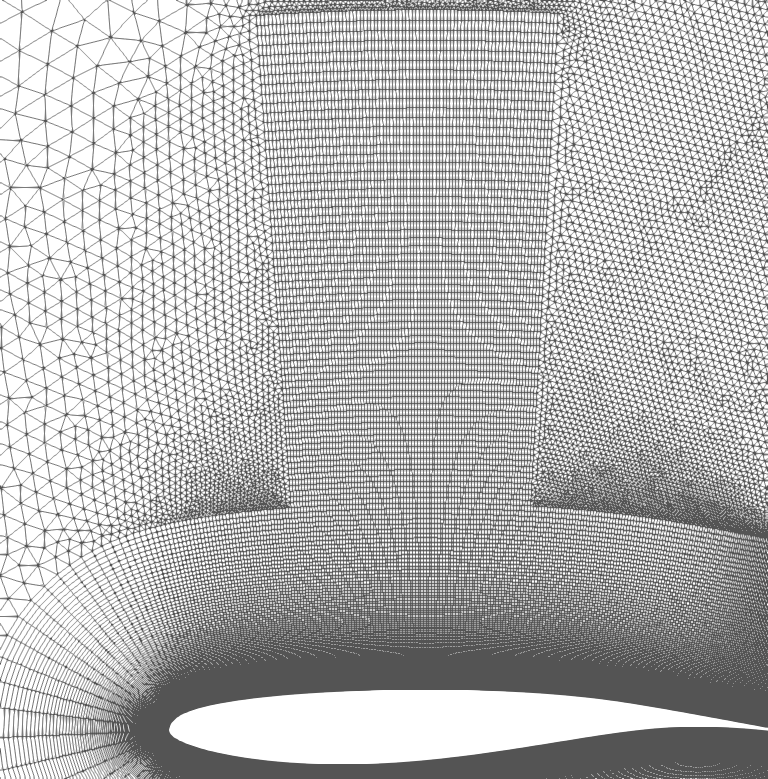
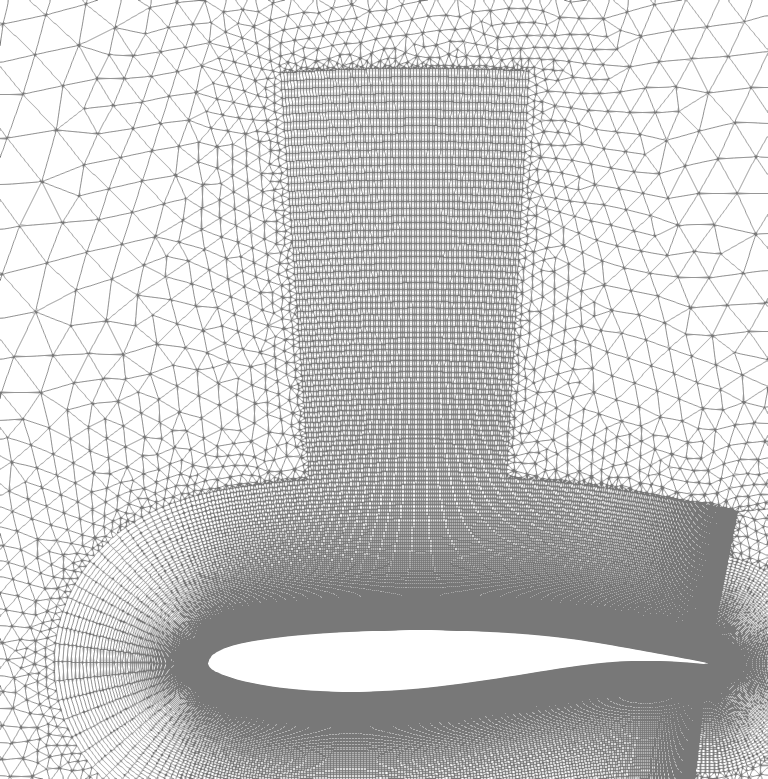
updated documentation

diff --git a/README.md b/README.md
@@ -3,17 +3,18 @@
 This project focuses on the generation of high-quality 2D C-type meshes for airfoil geometries, starting from a given airfoil contour and using as few user-defined parameters as possible. The generated meshes are designed such that a depth-extruded version is suitable for Delayed Detached Eddy Simulation (DDES) ([meshing guideline](https://www.aiaa-dpw.org/ref/gridding_guidelines_v3_07012024.pdf)).
 
 **Background and Reference**:
-- [pyAero](https://github.com/chiefenne/PyAero); the package was evaluated as a reference. Although, it implements many of the required features; however, initial tests revealed the following issues:
-  - loading the contour data is not very robust
-  - the implementation can't deal with contours that already come with a trailing edge
-  - the contour refinement is not smooth enough for DDES-type simulations; the algorithms introduces 1.5-ratio jumps in the cell edge length along the contour
+
+- [pyAero](https://github.com/chiefenne/PyAero) was evaluated as a reference package. Although it implements many of the required features, initial tests revealed the following issues:
+  - loading the contour data is not very robust,
+  - the implementation cannot deal with contours that already come with a trailing edge,
+  - the contour refinement is not smooth enough for DDES-type simulations; the algorithm introduces 1.5-ratio jumps in the cell edge length along the contour.
 
 The current implementation addresses the above limitations through the following:
 
-- Handling contours blunt trailing edge, by replacing it with a smooth curve.
+- Handling blunt trailing-edge contours by replacing the trailing edge with a smooth curve.
 - A smooth point-distribution algorithm for the airfoil surface based on:
   - mesh-size ratio,
-  - weighting functions to concentrate mesh points in regions of interest (e.g. leading edge or shock buffet regions).
+  - weighting functions to concentrate mesh points in regions of interest, such as the leading edge or shock-buffet regions.
 
 **Mesh topology**:
 
@@ -21,50 +22,60 @@ The mesh is generated using a hybrid structured–unstructured strategy:
 
 - Structured mesh blocks are created in critical regions:
   - the airfoil boundary layer,
-  - buffet region.
-- The remaining domain is filled with **unstructured triangular elements**, generated using the [Gmsh](https://github.com/live-clones/gmsh/tree/master) library.
-Options are provided to make the wake region finer.  
+  - the expected shock-buffet region.
+- The remaining domain is filled with **unstructured triangular or quad-dominant elements**, generated using the [Gmsh](https://github.com/live-clones/gmsh/tree/master) library.
+
+The unstructured farfield mesh also includes a circular refinement region around the airfoil, allowing finer resolution near the airfoil and surrounding structured blocks before smoothly transitioning to the coarser outer farfield mesh. Options are provided to make the wake region finer.
 
 <p align="center">
   <img src="data/images/base/airfoil_main.png" width="600">
 </p>
+
 <p align="center">
   <img src="data/images/base/airfoil_main_zoom_1.png" width="600">
 </p>
+
 <p align="center">
   <img src="data/images/base/airfoil_main_zoom_2.png" width="45%">
-  <img src="data/images/base/airfoil_main_zoom_3.png"  width="45%">
+  <img src="data/images/base/airfoil_main_zoom_3.png" width="45%">
 </p>
 
-The mesh settings used to generate this mesh are provided in the default "mesh_config.yaml" file.
+The mesh settings used to generate this mesh are provided in the default `mesh_config.yaml` file.
 
 ## Dependencies
+
 To clone the repository:
-```
+
+```bash
 git clone https://github.com/tanujravi/airfoil_meshing.git
 cd airfoil_meshing
 ```
+
 Setting up a suitable Python environment:
-```
+
+```bash
 python3 -m venv aero
 source aero/bin/activate
 pip install -U pip
 pip install -r requirements.txt
 ```
+
 The OAT15A airfoil contour data can be downloaded [here](https://www.aiaa-dpw.org/geometry.html).
 
 ## How to run
 
 To generate the mesh, run:
-```
+
+```bash
 source aero/bin/activate
 python main.py mesh_config.yaml
-
 ```
-Mesh parameters can be adjusted in "mesh_config.yaml" file.
 
-This generates a 2D mesh in obj format. The mesh can be extruded and converted to OpenFOAM format with boundary conditions included, using
-```
+Mesh parameters can be adjusted in the `mesh_config.yaml` file.
+
+This generates a 2D mesh in OBJ format. The mesh can be extruded and converted to OpenFOAM format with boundary conditions included, using:
+
+```bash
 cd openFOAM_mesh
 cp ../mesh.obj .
 ./Allrun
@@ -73,7 +84,11 @@ cp ../mesh.obj .
 Replace the mesh file name as required.
 
 ## Parameter variation
-1. n_points (airfoil_boundary) - Increases the number of mesh points allocated to the surface of the airfoil contour
+
+### 1. `n_points` (`airfoil_boundary`)
+
+Increases the number of mesh points allocated to the surface of the airfoil contour.
+
 <table align="center">
   <tr>
     <td align="center">
@@ -87,12 +102,15 @@ Replace the mesh file name as required.
   </tr>
 </table>
 
-2. weight_upper - Increases the number of mesh nodes distributed to the suction side of airfoil
+### 2. `weight_upper`
+
+Increases the number of mesh nodes distributed to the suction side of the airfoil.
+
 <table align="center">
   <tr>
     <td align="center">
       <img src="data/images/parameter_variation/weight_upper_base.png" width="400"><br>
-      <em>(a) weight_upper = 1</em>
+      <em>(a) weight_upper = 2</em>
     </td>
     <td align="center">
       <img src="data/images/parameter_variation/weight_upper_act.png" width="400"><br>
@@ -100,14 +118,18 @@ Replace the mesh file name as required.
     </td>
   </tr>
 </table>
-It is observed that the horizontal mesh length of one element in the buffet region is reduced from 0.0092 to 0.0085. Further refinement can be achieved by allocating fewer points in the trailing-edge region using the weight_te parameter, so that more points are distributed in the buffet zone.
 
-3. weight_curvature - Increases the distibution of points where the curvature is high i.e. Nose of the airfoil. 
+It is observed that the horizontal mesh length of one element in the buffet region is reduced from 0.0092 to 0.0085. Further refinement can be achieved by allocating fewer points in the trailing-edge region using the `weight_te` parameter, so that more points are distributed in the buffet zone.
+
+### 3. `weight_curvature`
+
+Increases the distribution of points where the curvature is high, i.e., near the nose of the airfoil.
+
 <table align="center">
   <tr>
     <td align="center">
       <img src="data/images/parameter_variation/weight_curvature_base.png" width="400"><br>
-      <em>(a) weight_curvature = 4</em>
+      <em>(a) weight_curvature = 6</em>
     </td>
     <td align="center">
       <img src="data/images/parameter_variation/weight_curvature_act.png" width="400"><br>
@@ -116,9 +138,12 @@ It is observed that the horizontal mesh length of one element in the buffet regi
   </tr>
 </table>
 
-Note: When multiple weighting functions are applied simultaneously, their sensitivities can differ significantly. In some cases, one weighting parameter must be varied by orders of magnitude before its effect becomes noticeable. This behavior was observed when adjusting weight_upper and weight_curvature at the same time. In particular, a value of weight_curvature = 100 was required before additional points appeared near the leading edge (nose) when increasing weight_upper.
+Note: When multiple weighting functions are applied simultaneously, their sensitivities can differ significantly. In some cases, one weighting parameter must be varied by orders of magnitude before its effect becomes noticeable. This behavior was observed when adjusting `weight_upper` and `weight_curvature` at the same time. In particular, a value of `weight_curvature = 100` was required before additional points appeared near the leading edge when increasing `weight_upper`.
 
-4. weight_te - Increases points distribution towards the trailing edge region.
+### 4. `weight_te`
+
+Increases point distribution towards the trailing-edge region.
+
 <table align="center">
   <tr>
     <td align="center">
@@ -131,9 +156,12 @@ Note: When multiple weighting functions are applied simultaneously, their sensit
     </td>
   </tr>
 </table>
-The trailing edge region where this bias is applied is controlled using "fraction_te".
 
-5. Airfoil boundary layer dimensions - Controls the dimensions of the airfoil boundary layer, namely the first-layer thickness (cell_thickness, t), the growth ratio (growth, r) and extrusion length (extrusion_distance, L).
+The trailing-edge region where this bias is applied is controlled using `fraction_te`.
+
+### 5. Airfoil boundary-layer dimensions
+
+Controls the dimensions of the airfoil boundary layer, namely the first-layer thickness `cell_thickness` (t), the growth ratio `growth` (r), and the extrusion length `extrusion_distance` (L).
 
 <table align="center">
   <tr>
@@ -148,7 +176,10 @@ The trailing edge region where this bias is applied is controlled using "fractio
   </tr>
 </table>
 
-6. Shock box dimensions - Controls the dimensions of the structured mesh region where shock buffet is expected to happen.
+### 6. Shock-box dimensions
+
+Controls the dimensions of the structured mesh region where shock buffet is expected to occur.
+
 <table align="center">
   <tr>
     <td align="center">
@@ -162,7 +193,10 @@ The trailing edge region where this bias is applied is controlled using "fractio
   </tr>
 </table>
 
-7. n_points (wake_tunnel) - Controls number of points used to make the boundary at the trailing edge.
+### 7. `n_points` (`wake_tunnel`)
+
+Controls the number of points used to create the boundary at the trailing edge.
+
 <table align="center">
   <tr>
     <td align="center">
@@ -176,7 +210,10 @@ The trailing edge region where this bias is applied is controlled using "fractio
   </tr>
 </table>
 
-8. make_curve (wake) - Provides an option to enable or disable a curved trailing edge.
+### 8. `make_curve` (`wake_tunnel`)
+
+Provides an option to enable or disable a curved trailing edge.
+
 <table align="center">
   <tr>
     <td align="center">
@@ -190,21 +227,27 @@ The trailing edge region where this bias is applied is controlled using "fractio
   </tr>
 </table>
 
-9. Fraction structured - Specifies the portion of the airfoil trailing-edge (TE) region that will be meshed using a structured grid. The value represents the fraction of the structured mesh length measured in the wall-normal direction relative to the total airfoil extrusion length.  
+### 9. `fraction_structured`
+
+Specifies the portion of the airfoil trailing-edge region that will be meshed using a structured grid. The value represents the fraction of the structured mesh length measured in the wall-normal direction relative to the total airfoil extrusion length.
+
 <table align="center">
   <tr>
     <td align="center">
       <img src="data/images/parameter_variation/fraction_struct_base.png" width="400"><br>
-      <em>(a) fraction_structured = 0.5</em>
+      <em>(a) fraction_structured = 0.7</em>
     </td>
     <td align="center">
       <img src="data/images/parameter_variation/fraction_struct_act.png" width="400"><br>
-      <em>(b) fraction_structured = 0.7</em>
+      <em>(b) fraction_structured = 0.5</em>
     </td>
   </tr>
 </table>
 
-10. Wake region dimensions - Controls the region of refinement in the wake region (trapezium-shaped).
+### 10. Wake-region dimensions
+
+Controls the region of refinement in the trapezium-shaped wake region.
+
 <table align="center">
   <tr>
     <td align="center">
@@ -218,65 +261,115 @@ The trailing edge region where this bias is applied is controlled using "fractio
   </tr>
 </table>
 
+### 11. Unstructured mesh `fill_shape`
 
-11. Unstructured mesh fill type - This parameter controls the type of elements used in the unstructured mesh region. Two options are available:
+This parameter controls the type of elements used in the unstructured mesh region. Two options are available:
 
-- `"tria"`: fills the region exclusively with triangular elements  
-- `"quad"`: generates a quad-dominant mesh, primarily composed of quadrilateral elements, with a small number of triangles where necessary  
+- `"tria"`: fills the region exclusively with triangular elements.
+- `"quad"`: generates a quad-dominant mesh, primarily composed of quadrilateral elements, with a small number of triangles where necessary.
 
 <table align="center">
   <tr>
     <td align="center">
       <img src="data/images/parameter_variation/fill_type_base.png" width="400"><br>
-      <em>(a) fill_type = "tria"</em>
+      <em>(a) fill_shape = "tria"</em>
     </td>
     <td align="center">
       <img src="data/images/parameter_variation/fill_type_act.png" width="400"><br>
-      <em>(b) fill_type = "quad"</em>
+      <em>(b) fill_shape = "quad"</em>
     </td>
   </tr>
 </table>
-Note: When using fill_type = "quad", a larger mesh size can typically be employed while maintaining good mesh quality.
 
-12. Wake region mesh size - Controls the element size in the wake region.
+Note: When using `fill_shape = "quad"`, a larger mesh size can typically be employed while maintaining good mesh quality.
+
+### 12. Wake-region mesh size
+
+Controls the element size in the wake region.
+
 <table align="center">
   <tr>
     <td align="center">
       <img src="data/images/parameter_variation/wake_size_base.png" width="400"><br>
-      <em>(a) wake_size = 0.02</em>
+      <em>(a) wake_size_left = 0.02, wake_size_right = 0.1</em>
     </td>
     <td align="center">
       <img src="data/images/parameter_variation/wake_size_act.png" width="400"><br>
-      <em>(b) wake_size = 0.01</em>
-    </td>
-  </tr>
-</table>
-Note: No. of elements for wake_size = 0.02 is 222,346 and for wake_size = 0.01 is 354,396.
-
-13. Farfield mesh size - Controls the mesh sizing for filling remaining region.
-<table align="center">
-  <tr>
-    <td align="center">
-      <img src="data/images/parameter_variation/farfield_mesh_base.png" width="400"><br>
-      <em>(a) min_size = 0.02, max_size = 3.2</em>
-    </td>
-    <td align="center">
-      <img src="data/images/parameter_variation/farfield_mesh_act.png" width="400"><br>
-      <em>(b) min_size = 0.02, max_size = 6</em>
+      <em>(b) wake_size_left = 0.01, wake_size_right = 0.2</em>
     </td>
   </tr>
 </table>
 
-14. Fafield mesh grading distance - Specifies the spatial distance over which the mesh transitions from min_size to max_size. A larger value produces a smoother and more gradual grading, allowing the fine mesh region to extend farther into the domain. A smaller value results in a sharper transition and a more rapid increase in element size away from the body. 
+### 13. Circular refinement region
+
+Controls the mesh sizing and grading inside the circular refinement region around the airfoil.
+
+The circular refinement region is used to maintain a finer mesh around the airfoil and nearby structured blocks before transitioning to the outer farfield mesh. The parameters associated with this region are:
+
+- `circle_center`: center of the circular refinement region.
+- `circle_radius`: radius of the circular refinement region.
+- `inner_size`: mesh size near the inner boundary inside the circular refinement region only.
+- `circle_size`: mesh size away from the inner boundary and near the outer edge of the circular refinement region.
+- `circle_distmax`: grading distance over which the mesh grows from `inner_size` to `circle_size` inside the circular refinement region.
+
 <table align="center">
   <tr>
     <td align="center">
-      <img src="data/images/parameter_variation/grading_base.png" width="400"><br>
-      <em>(a) grading = 0.01</em>
+      <img src="data/images/parameter_variation/circular_mesh_base_1.png" width="400"><br>
+      <em>(a) circle_center = [0.5, 0.0], circle_radius = 2.0, circle_size = 0.12, circle_distmax = 0.7</em>
     </td>
     <td align="center">
-      <img src="data/images/parameter_variation/grading_act.png" width="400"><br>
-      <em>(b) grading = 100</em>
+      <img src="data/images/parameter_variation/circular_mesh_act_1.png" width="400"><br>
+      <em>(b) circle_center = [0.7, 0.0], circle_radius = 3.0, circle_size = 0.18, circle_distmax = 1.7</em>
+    </td>
+  </tr>
+  <tr>
+    <td align="center">
+      <img src="data/images/parameter_variation/circular_mesh_base_2.png" width="400"><br>
+      <em>(c) inner_size = 0.02</em>
+    </td>
+    <td align="center">
+      <img src="data/images/parameter_variation/circular_mesh_act_2.png" width="400"><br>
+      <em>(d) inner_size = 0.01</em>
     </td>
   </tr>
 </table>
+
+Note: The parameter `inner_size` affects only the mesh size near the inner boundary inside the circular refinement region. Outside this circular region, the near-inner-boundary mesh size is controlled by `farfield_start_size`.
+
+### 14. Farfield mesh size
+
+The farfield mesh parameters control how the mesh transitions from the circular refinement region to the outer farfield boundary. The parameters associated with the outer farfield grading are:
+
+- `farfield_start_size`: starting mesh size outside the circular refinement region. This is the mesh size near the circular interface and near the inner boundary outside the circular region.
+- `max_size`: maximum mesh size allowed in the outer farfield region.
+- `outer_distmax`: grading distance over which the mesh grows from `farfield_start_size` to `max_size` outside the circular refinement region.
+
+In the first comparison, `max_size` and `outer_distmax` are varied together to modify the coarsening rate and final farfield mesh size.
+
+In the second comparison, only `farfield_start_size` is varied while keeping `max_size` and `outer_distmax` fixed.
+
+<table align="center">
+  <tr>
+    <td align="center">
+      <img src="data/images/parameter_variation/farfield_mesh_base_2.png" width="400"><br>
+      <em>(a) max_size = 3.2, outer_distmax = 20.0</em>
+    </td>
+    <td align="center">
+      <img src="data/images/parameter_variation/farfield_mesh_act_2.png" width="400"><br>
+      <em>(b) max_size = 5.0, outer_distmax = 40.0</em>
+    </td>
+  </tr>
+  <tr>
+    <td align="center">
+      <img src="data/images/parameter_variation/farfield_mesh_base_1.png" width="400"><br>
+      <em>(c) farfield_start_size = 0.12</em>
+    </td>
+    <td align="center">
+      <img src="data/images/parameter_variation/farfield_mesh_act_1.png" width="400"><br>
+      <em>(d) farfield_start_size = 0.25</em>
+    </td>
+  </tr>
+</table>
+
+Note: `farfield_start_size` controls the mesh size immediately outside the circular refinement region and near the inner boundary in the outer farfield region. The parameters `max_size` and `outer_distmax` control how quickly the mesh grows toward the outer farfield boundary.
